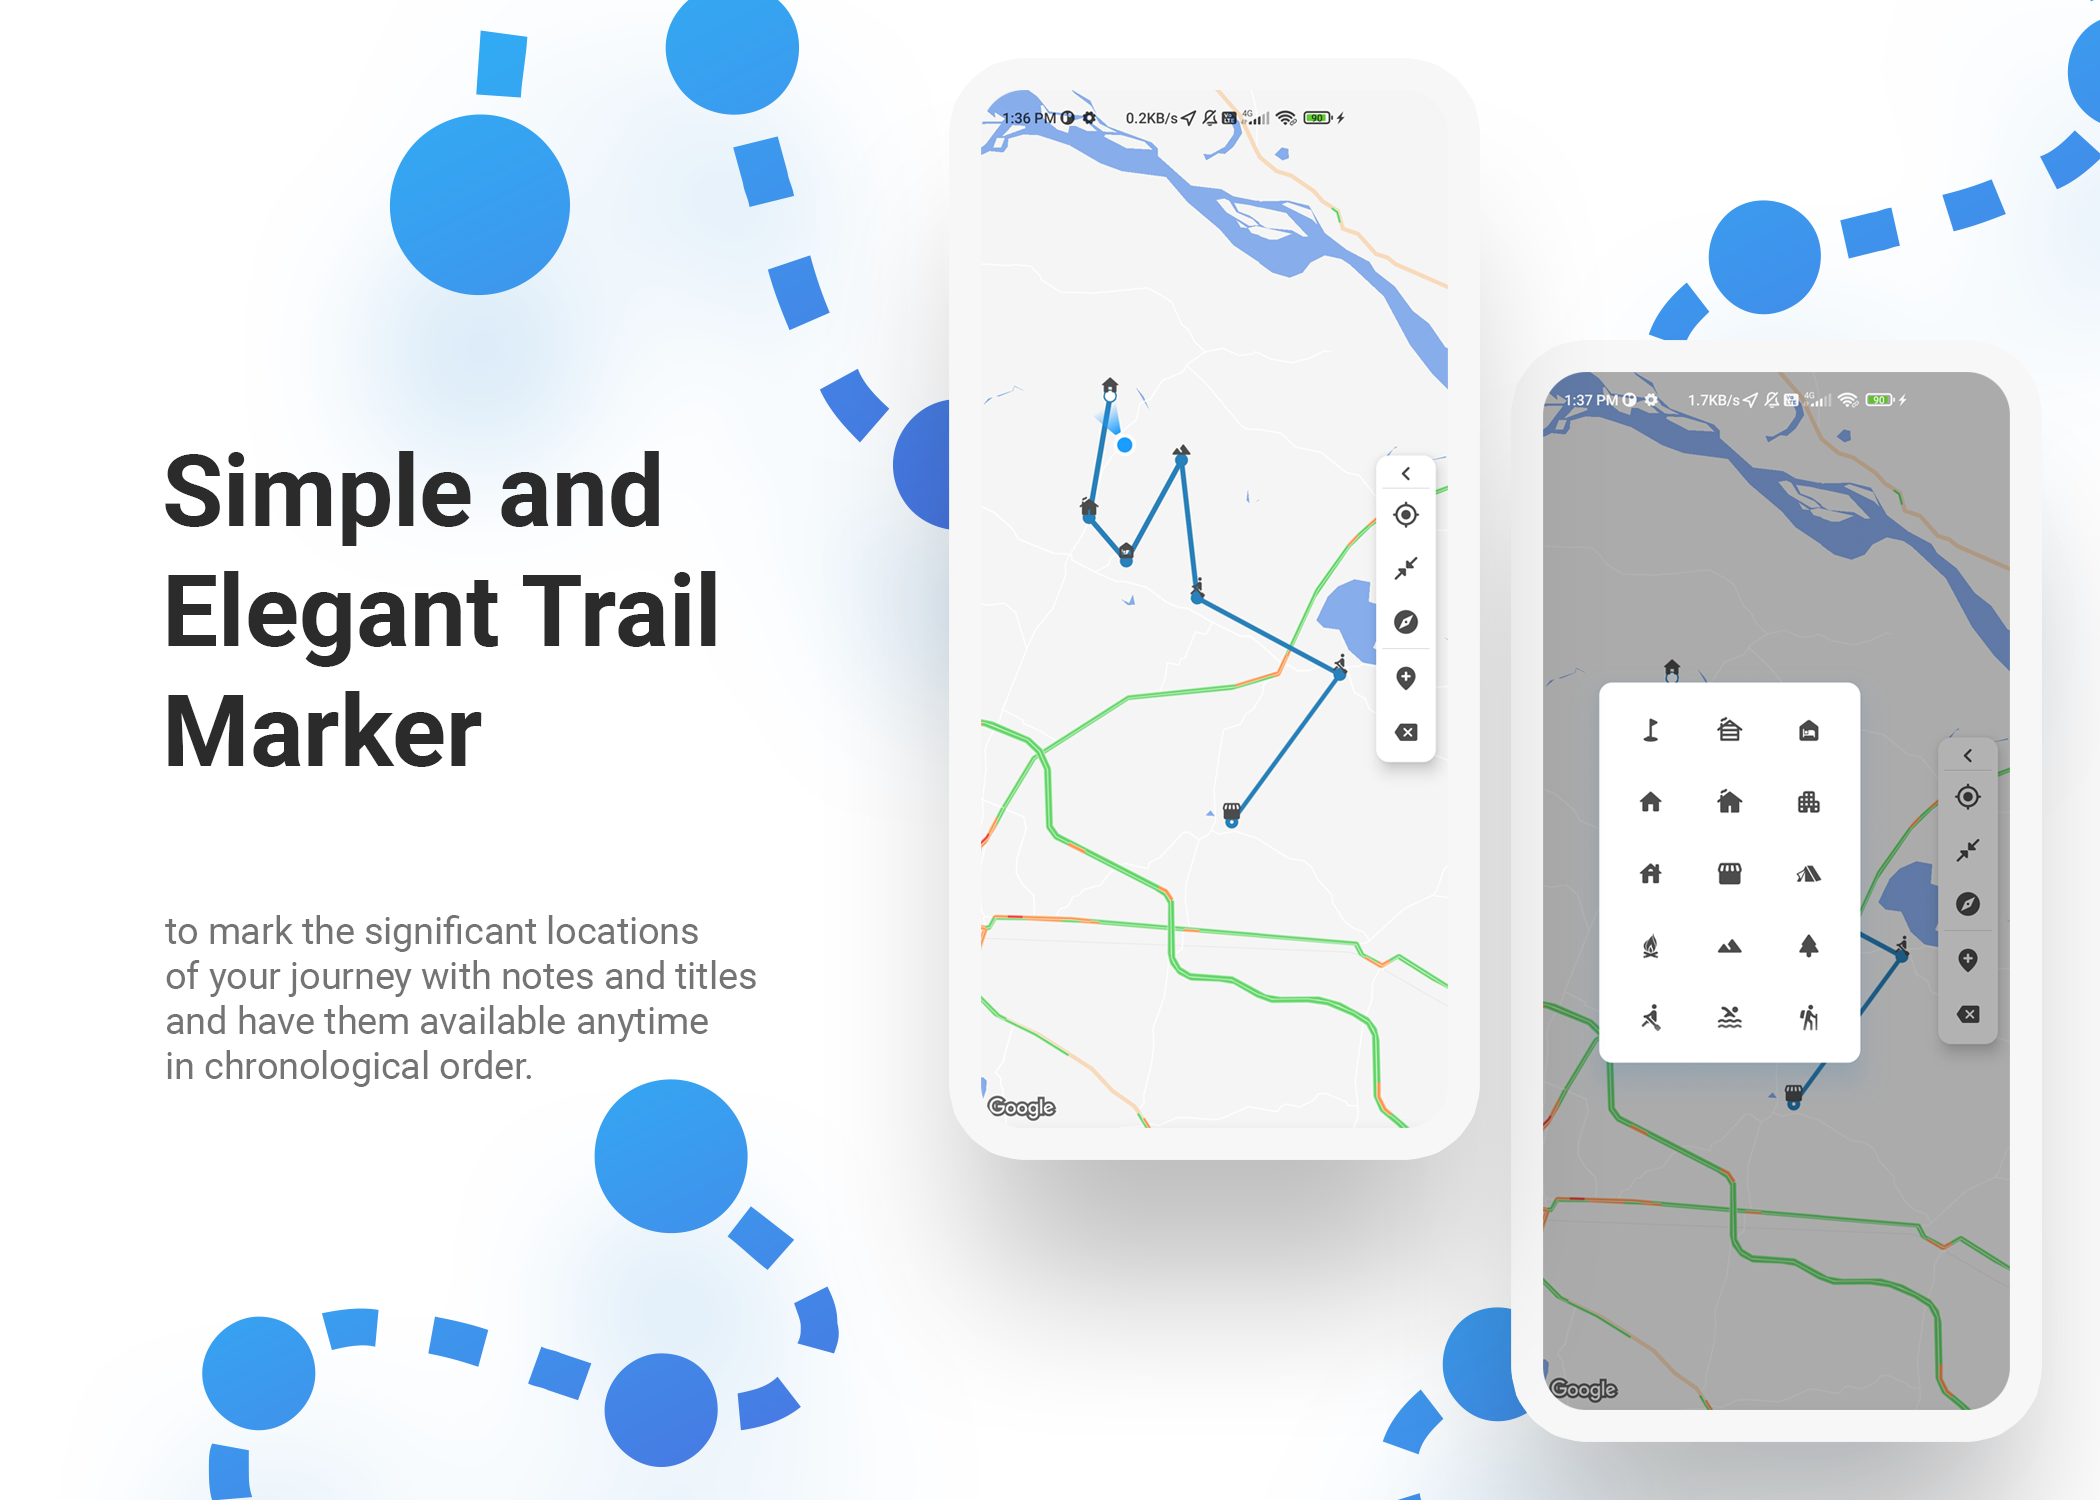
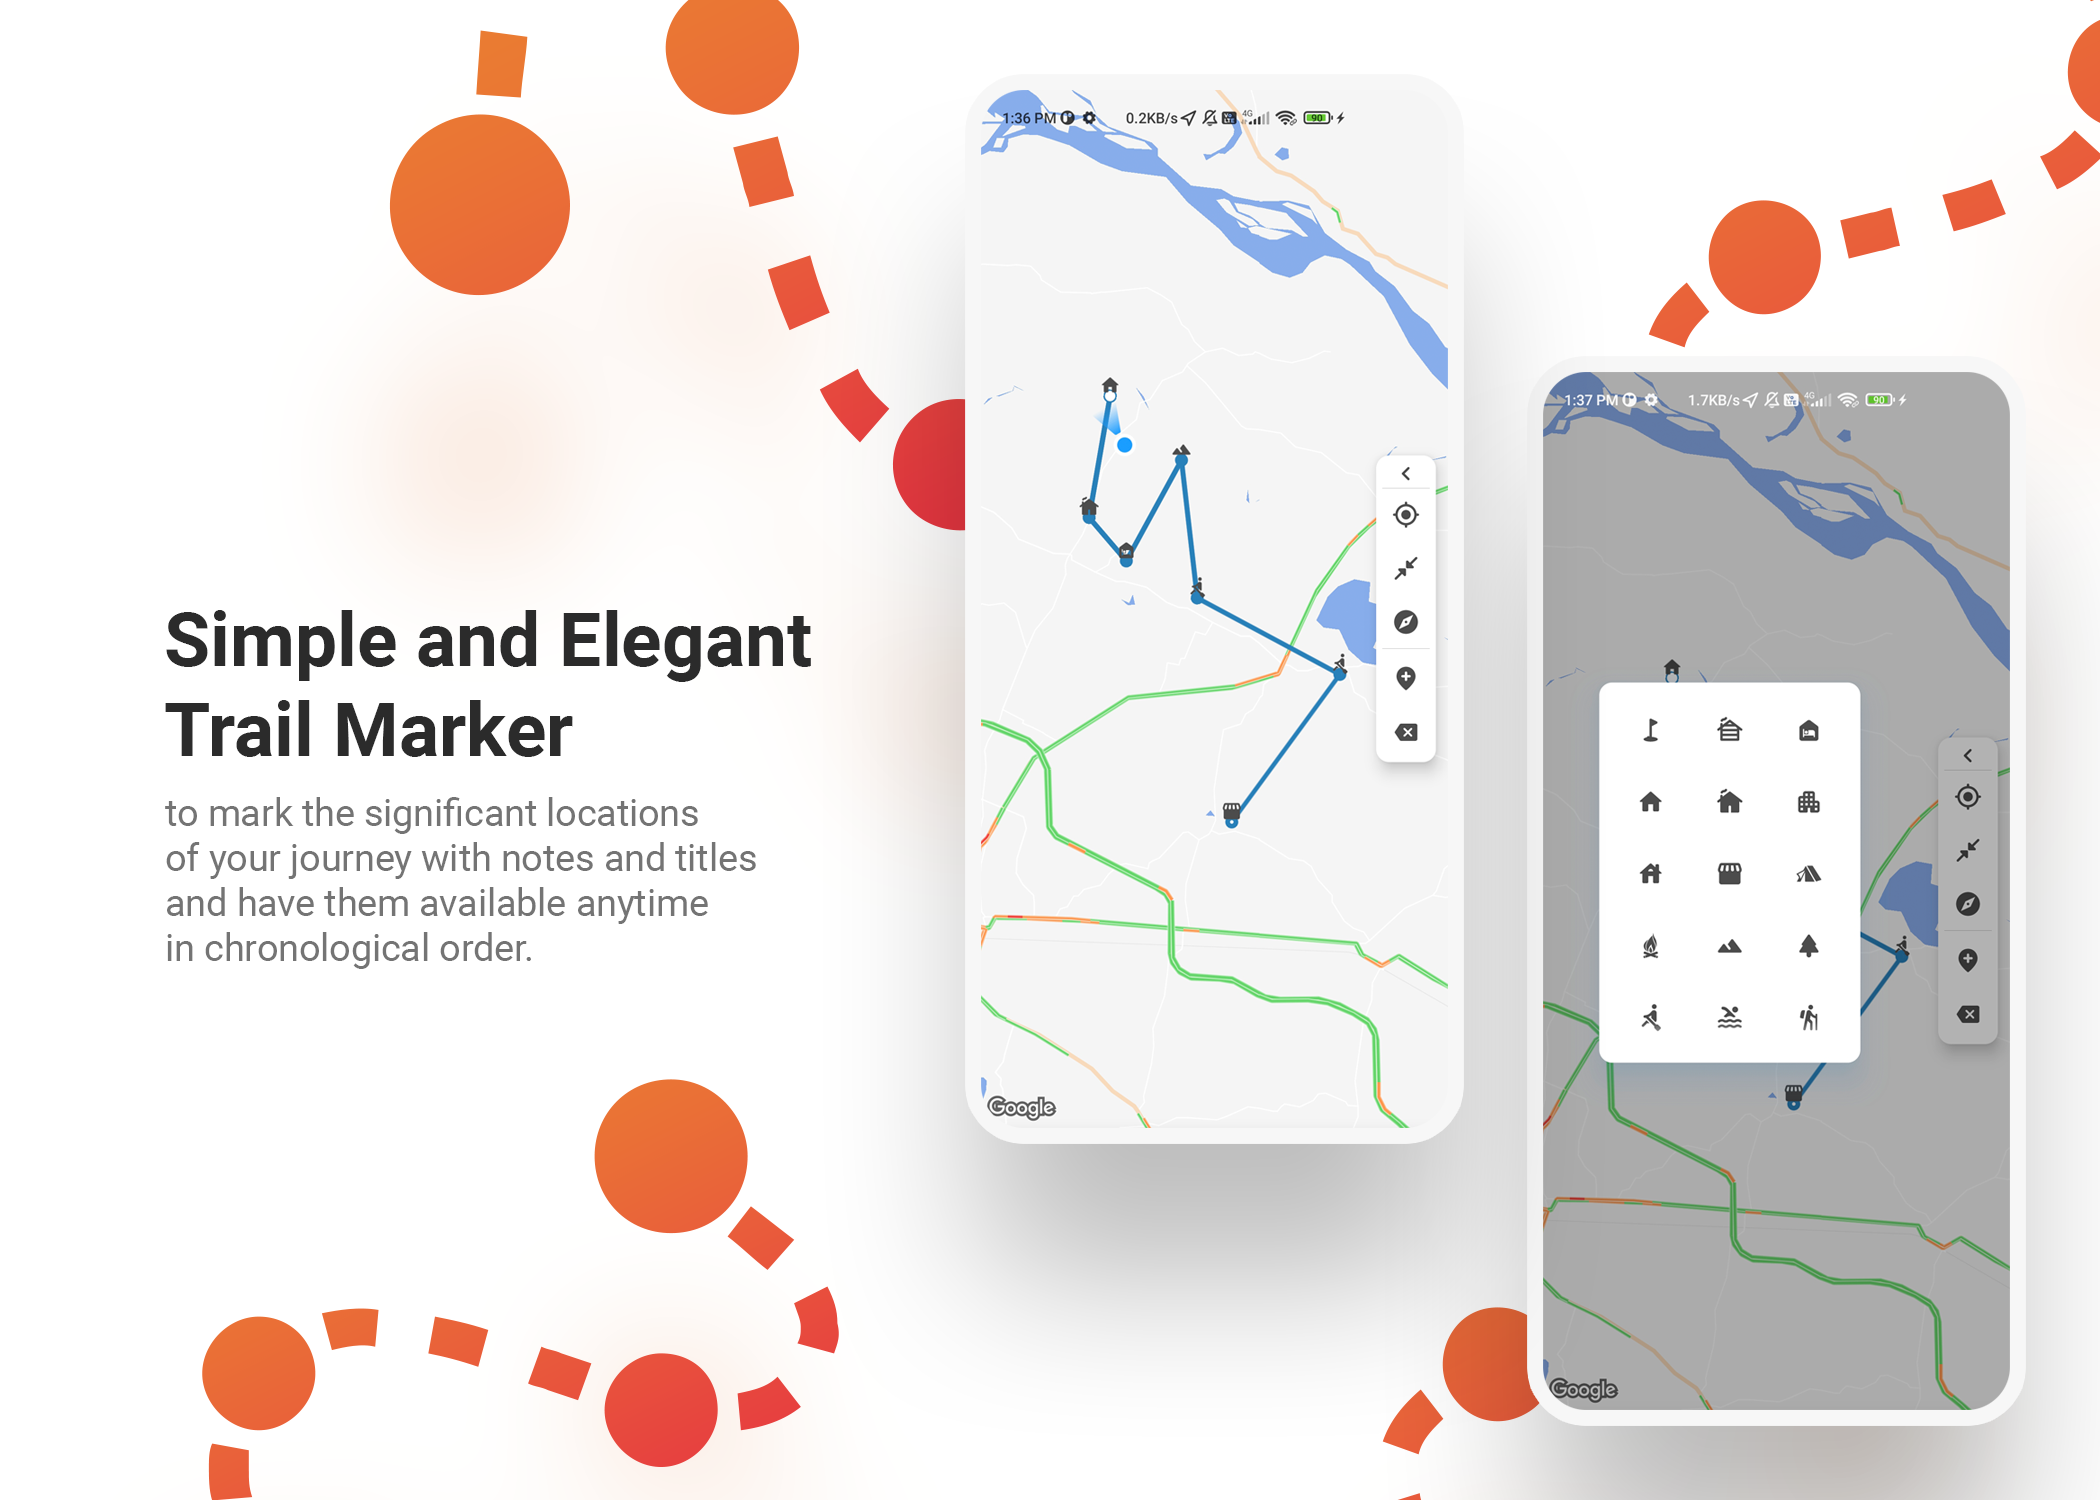
Build161
- Inverted Gimbal Lock checked state to correct its context, it was misleading
  - Changed app's default icon
  - Updated banner and screenshots
  - Updated dependencies

diff --git a/app/src/main/java/app/simple/positional/ui/panels/Direction.kt b/app/src/main/java/app/simple/positional/ui/panels/Direction.kt
@@ -227,8 +227,6 @@ class Direction : ScopedFragment(), SensorEventListener {
         }
 
         rotationAngle = if (isGimbalLock) {
-            CompassAzimuth.calculate(gravity = accelerometer, magneticField = magnetometer)
-        } else {
             val successfullyCalculatedRotationMatrix = SensorManager.getRotationMatrix(rotation, inclination, accelerometerReadings, magnetometerReadings)
 
             if (successfullyCalculatedRotationMatrix) {
@@ -238,6 +236,8 @@ class Direction : ScopedFragment(), SensorEventListener {
             } else {
                 0F
             }
+        } else {
+            CompassAzimuth.calculate(gravity = accelerometer, magneticField = magnetometer)
         }
 
         dial.rotationUpdate(rotationAngle * -1, true)

diff --git a/app/src/main/java/app/simple/positional/ui/panels/Compass.kt b/app/src/main/java/app/simple/positional/ui/panels/Compass.kt
@@ -350,8 +350,6 @@ class Compass : ScopedFragment(), SensorEventListener {
         }
 
         val angle = if (isGimbalLock) {
-            CompassAzimuth.calculate(gravity = accelerometer, magneticField = magnetometer)
-        } else {
             val successfullyCalculatedRotationMatrix = SensorManager.getRotationMatrix(rotation, inclination, accelerometerReadings, magnetometerReadings)
 
             if (successfullyCalculatedRotationMatrix) {
@@ -361,6 +359,8 @@ class Compass : ScopedFragment(), SensorEventListener {
             } else {
                 0F
             }
+        } else {
+            CompassAzimuth.calculate(gravity = accelerometer, magneticField = magnetometer)
         }
 
         run {

diff --git a/app/src/main/java/app/simple/positional/preferences/DirectionPreferences.kt b/app/src/main/java/app/simple/positional/preferences/DirectionPreferences.kt
@@ -52,7 +52,7 @@ object DirectionPreferences {
     }
 
     fun isGimbalLock(): Boolean {
-        return SharedPreferences.getSharedPreferences().getBoolean(directionGimbalLock, true)
+        return SharedPreferences.getSharedPreferences().getBoolean(directionGimbalLock, false)
     }
 
     //--------------------------------------------------------------------------------------------------//

diff --git a/app/src/main/java/app/simple/positional/services/LocationService.kt b/app/src/main/java/app/simple/positional/services/LocationService.kt
@@ -48,6 +48,7 @@ class LocationService : Service(), LocationListener {
     }
 
     // only for API < 29
+    @Deprecated("Deprecated in Java")
     override fun onStatusChanged(provider: String, status: Int, extras: Bundle) {
         Intent().also { intent ->
             intent.action = "provider"

diff --git a/app/src/main/java/app/simple/positional/preferences/CompassPreferences.kt b/app/src/main/java/app/simple/positional/preferences/CompassPreferences.kt
@@ -94,6 +94,6 @@ object CompassPreferences {
     }
 
     fun isUsingGimbalLock(): Boolean {
-        return getSharedPreferences().getBoolean(useGimbalLock, true)
+        return getSharedPreferences().getBoolean(useGimbalLock, false)
     }
 }
